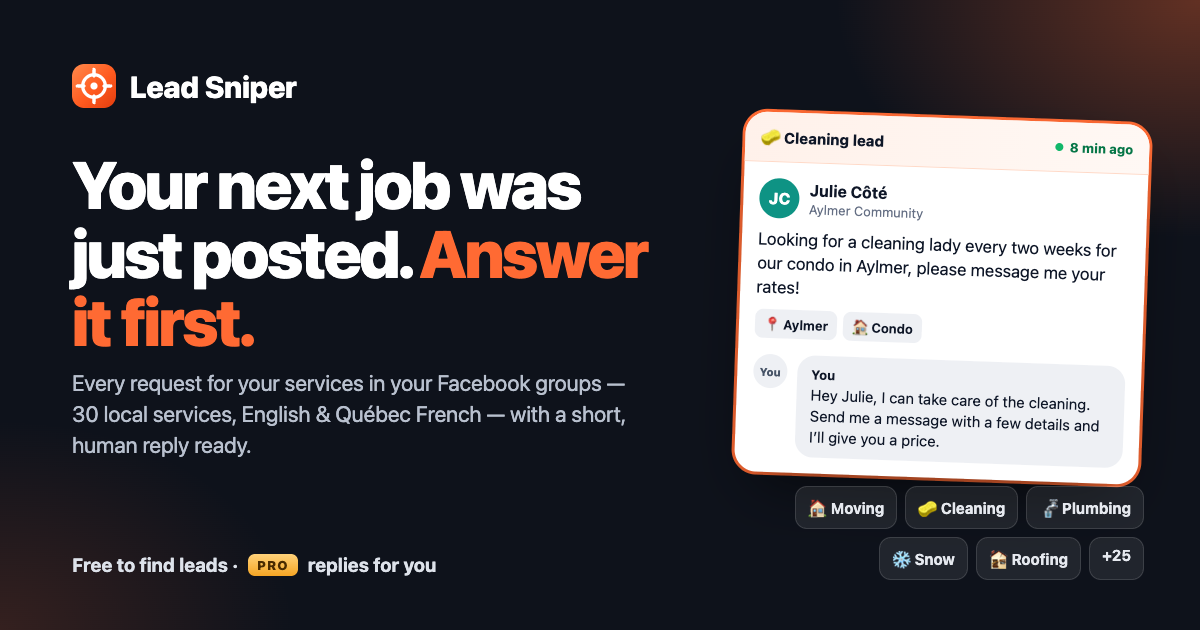
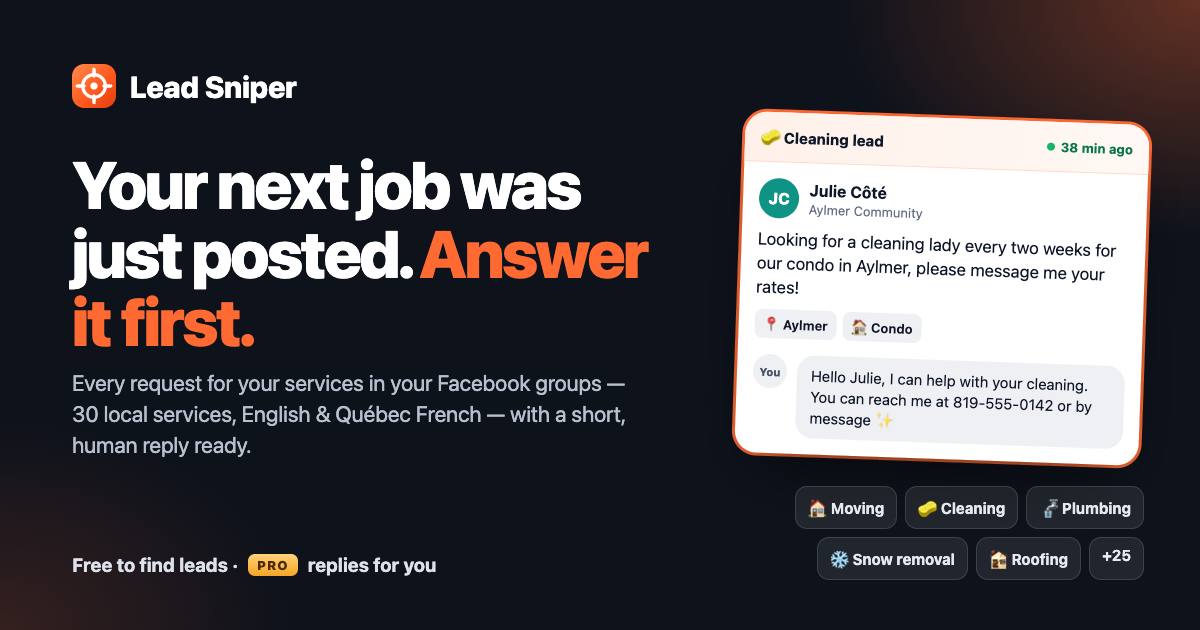
3.11.1: the same service names everywhere

diff --git a/index.html b/index.html
@@ -191,7 +191,7 @@ section.alt { background: var(--bg-2); }
   <h2>30 services. Turn on yours.</h2>
   <div class="svcs">
     <div><h3>Moving &amp; hauling</h3><p><span>🏠 Moving</span><span>📦 Pickup &amp; delivery</span><span>🏋 Heavy items</span><span>🗑 Junk removal</span></p></div>
-    <div><h3>Home</h3><p><span>🧽 Cleaning</span><span>🔧 Handyman</span><span>🪛 Assembly &amp; TV mounting</span><span>🎨 Painting</span><span>🚰 Plumbing</span><span>💡 Electrical</span><span>♨ Heating &amp; AC</span><span>🧺 Appliance repair</span><span>🔨 Renovation</span><span>🔥 Chimney sweeping</span><span>🔑 Locksmith</span><span>🐜 Pest control</span></p></div>
+    <div><h3>Home services</h3><p><span>🧽 Cleaning</span><span>🔧 Handyman</span><span>🪛 Assembly &amp; TV mounting</span><span>🎨 Painting</span><span>🚰 Plumbing</span><span>💡 Electrical</span><span>♨ Heating &amp; AC</span><span>🧺 Appliance repair</span><span>🔨 Renovation &amp; construction</span><span>🔥 Chimney sweeping</span><span>🔑 Locksmith</span><span>🐜 Pest control</span></p></div>
     <div><h3>Outdoor &amp; exterior</h3><p><span>🌱 Lawn &amp; landscaping</span><span>❄ Snow removal</span><span>🌳 Tree service</span><span>🪟 Windows, gutters &amp; pressure washing</span><span>🏚 Roofing</span><span>🏊 Pools &amp; hot tubs</span></p></div>
     <div><h3>Auto, family &amp; personal</h3><p><span>🚗 Auto repair &amp; tires</span><span>🐕 Pet care</span><span>💻 Computer &amp; phone repair</span><span>🧸 Childcare</span><span>📚 Tutoring</span><span>💇 Hair &amp; beauty</span><span>📸 Photography</span><span>🧵 Sewing &amp; alterations</span></p></div>
   </div>
@@ -213,13 +213,13 @@ section.alt { background: var(--bg-2); }
       <div class="n"><i>2</i>Writes like you</div>
       <div class="orig"><b>Étienne:</b> Quelqu’un aurait un camion pour aller chercher un divan à Orléans demain?</div>
       <div class="out"><span class="lang">FR</span>Bonjour Étienne! On peut aller chercher ça et vous le livrer. Envoyez-nous un message ou appelez au 819-555-0142 🙂 Plus d’infos sur yourmovingco.ca — Your Moving Co.</div>
-      <div class="orig"><b>Julie:</b> Looking for a cleaning lady every two weeks for our condo in Aylmer!</div>
-      <div class="out"><span class="lang">EN</span>Hey Julie, I can help with your cleaning. You can reach me at 819-555-0142 or by message. — Your Co.</div>
-      <p class="note">Short and human, in their language: their name, the job, your number and website. One click for another version.</p>
+      <div class="orig"><b>Julie:</b> Looking for a cleaning lady every two weeks for our condo in Aylmer, please message me your rates!</div>
+      <div class="out"><span class="lang">EN</span>Hello Julie, I can help with your cleaning. You can reach me at 819-555-0142 or by message ✨</div>
+      <p class="note">Short and human, in their language: their name, the job, your number — and your website on the jobs it fits. One click for another version.</p>
     </div>
     <div class="step">
       <div class="n"><i>3</i>Sends it <span class="pro">PRO</span></div>
-      <div class="toast"><span class="badge ok">✓ 93</span><div>Auto-replied to Nathalie<small>3½ · Aylmer → Hull · Saturday</small></div></div>
+      <div class="toast"><span class="badge ok">✓ 93</span><div>Auto-replied to Nathalie<small>🏠 Moving · 3½ · Aylmer → Hull · Saturday</small></div></div>
       <div class="chips"><span>🛡 Hourly &amp; daily limits</span><span>🌙 Quiet hours</span><span>🙅 Once a week per person</span><span>🤔 Leaves unclear posts to you</span><span>🎭 Free Rehearsal</span></div>
       <p class="note">Comments during scans, only when someone is clearly hiring — and only after a second check of the post.</p>
     </div>

diff --git a/RELEASE.md b/RELEASE.md
@@ -8,6 +8,10 @@
 ### Updating
 Download the new **lead-sniper.zip**, double-click it, and copy everything inside the new **lead-sniper** folder over the files in your old one (the folder shown under *Lead Sniper → Details → Loaded from* at `brave://extensions`). Then just open the Lead Sniper dashboard: it notices the new version and updates itself — no reload button to find. (From 3.8.3 on, it also checks its folder every couple of minutes.)
 
+### 3.11.1: the same names everywhere
+- 🏷 Services go by their full names all through the dashboard — the inbox filters, Insights, the Replies page, Settings and the Autopilot report now say “Pickup & delivery”, “Heavy items” and “Snow removal”, as the Services page and the website do (only the Facebook bar keeps a short name for the six longest, where space is tight)
+- 🧭 “Group Hunter” is spelled the same in the menu as everywhere else
+
 ### New in 3.11: a cleaner dashboard that puts the edge in front of you
 - 🔥 **Today, at a glance:** the Inbox opens on how many requests are waiting, how many were posted in the last hour (the first good reply usually gets the job), how many are needed this week — and how your week compares to the last. One click replies to the newest
 - 💡 **Tips from your own leads:** when your customers post most, which group brings you the most work, and what Autopilot did today — each shown only when there’s enough data for it to be true

diff --git a/README.md b/README.md
@@ -10,9 +10,9 @@
 | | |
 |---|---|
 | 🎯 **Spots it** | Only real customers. Competitors' ads, job posts and sale posts are skipped. |
-| ✍ **Writes it** | A short, human reply in their language: their name, the job, your number and website. Another version in one click. |
+| ✍ **Writes it** | A short, human reply in their language: their name, the job, your number, and your website on the jobs it fits. Another version in one click. |
 | 🤖 **Sends it** `PRO` | Posted while you're on a job, only when someone is clearly hiring, with limits, quiet hours and a free Rehearsal mode. |
-| 🧰 **30 services** | Moving, cleaning, handyman, painting, plumbing, electrical, heating & AC, roofing, snow, lawn, trees, chimneys, locksmiths, pools, auto, pets, computer repair, childcare, tutoring, hair & beauty, photography, sewing and more. Turn on only yours. |
+| 🧰 **30 services** | Moving, pickup & delivery, heavy items, junk removal, cleaning, handyman, painting, plumbing, electrical, heating & AC, roofing, snow removal, lawn & landscaping, tree service, chimney sweeping, locksmith, pools & hot tubs, auto repair & tires, pet care, computer & phone repair, childcare, tutoring, hair & beauty, photography, sewing & alterations and more. Turn on only yours. |
 | 🧭 **Group Hunter** | Finds local groups and ranks them by requests for your services. |
 | 🔒 **Private** | No account, no cloud. Everything stays in your browser. |
 
